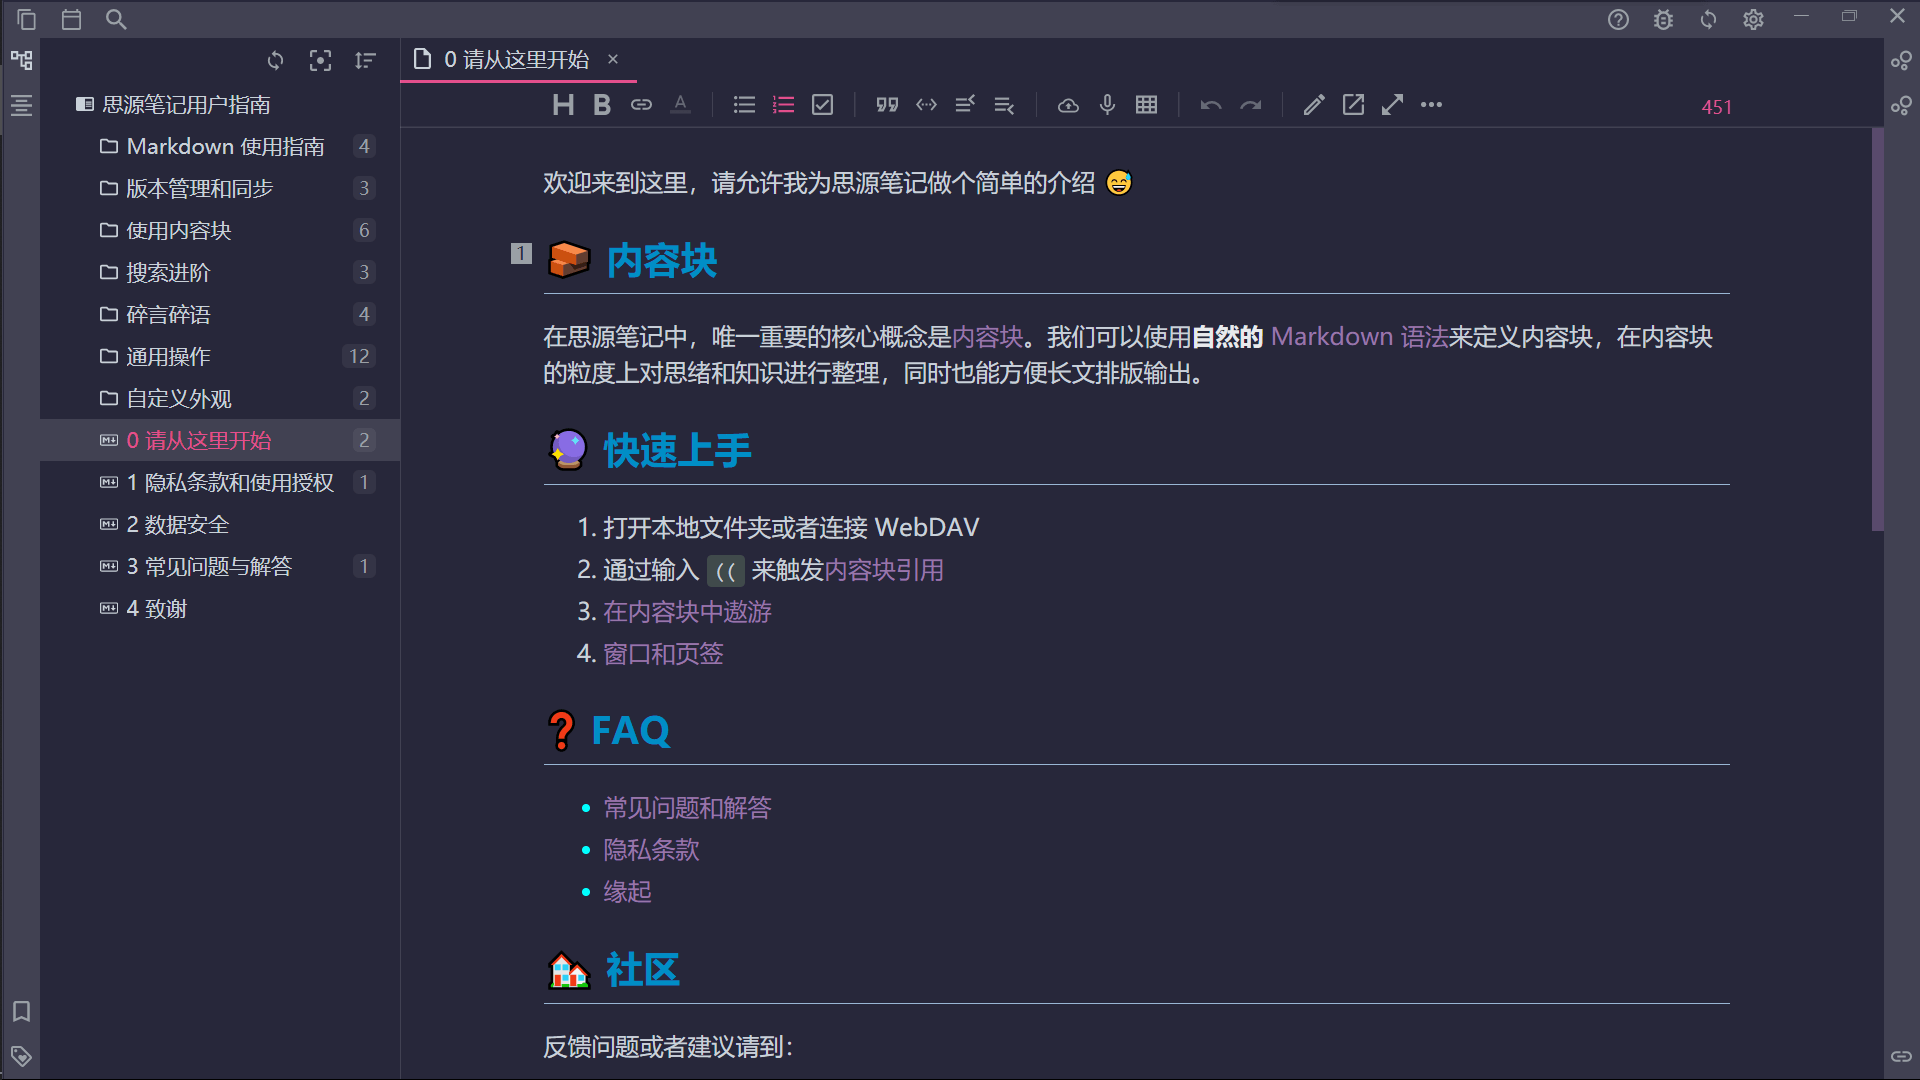
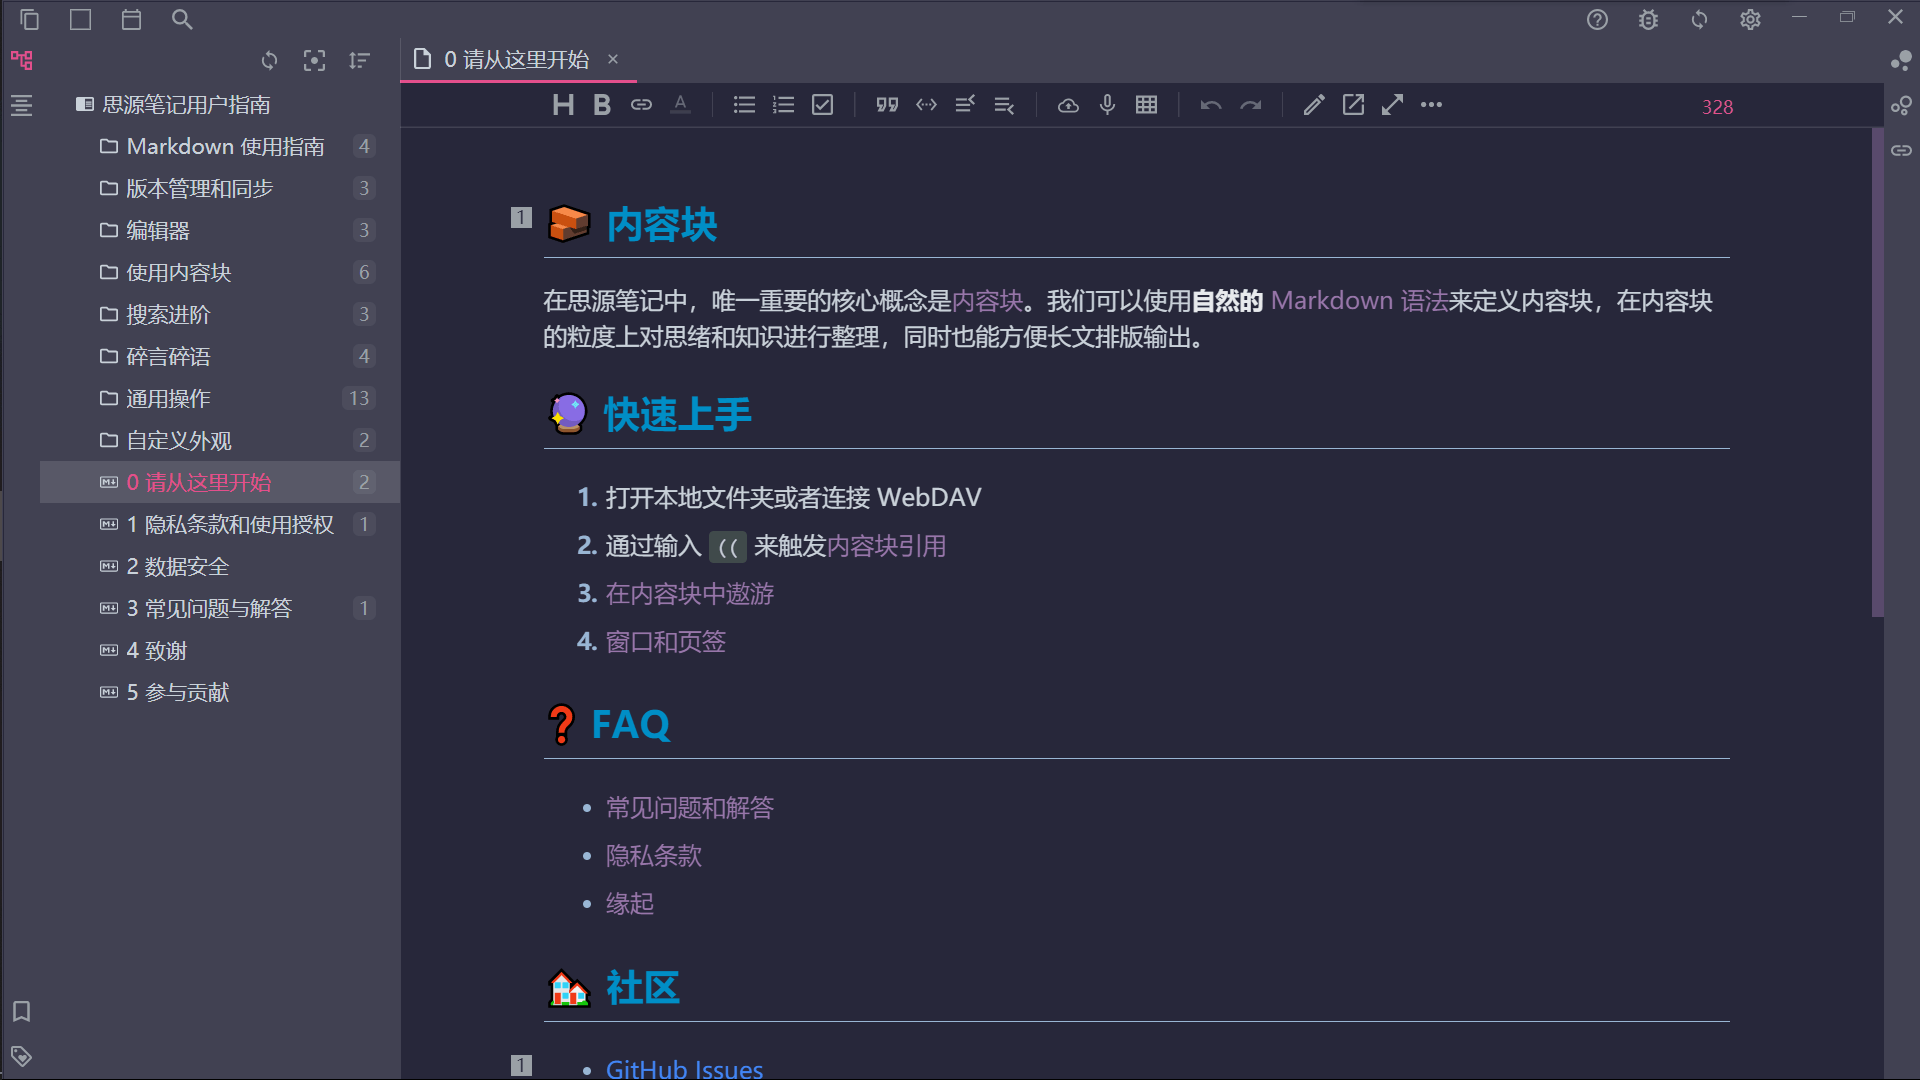
v0.1.0

diff --git a/theme.css b/theme.css
@@ -170,10 +170,26 @@
 .vditor ol ul {
     padding-left: .5em;
 }
+.vditor ol li {
+    color: var(--Lavender-h-underline-highLight-color);
+    font-weight: bold;
+}
+.vditor ol li p, .vditor ul li p {
+    color: var(--b3-theme-on-background);
+    font-weight: normal;
+}
+.vditor ul li {
+    color: var(--Lavender-h-underline-highLight-color);
+}
 .vditor ol {
     padding-left: 1.5em;
 }
 .vditor ul > li {
+    list-style-type: disc;
+    margin-left: .6em;
+}
+
+/* .vditor ul > li {
     min-height: 24px;
     list-style-type: none !important;
[1 lines of base64/hex data omitted]
@@ -182,18 +198,22 @@
     background-repeat: no-repeat;
     margin-left: -.5em;
     padding-left: 1em;
+} */
+.vditor-reset li p {
+    margin-bottom: 0;
+    padding: 4px 0;
 }
-.vditor ol li {
-    margin-left: 1em;
+.vditor ol > li {
+    margin-left: 1.1em;
 }
 .vditor ul ol, .vditor ol ol, .vditor ul ul, .vditor ol ul {
     border-left: .15em solid var(--Lavender-h-underline-highLight-color);
 }
 .vditor ul ol, .vditor ol ol {
-    margin-left: -.8em !important;
+    margin-left: -.875em !important;
 }
 .vditor ul ul, .vditor ol ul {
-    margin-left: -.8em !important;
+    margin-left: -.875em !important;
 }
 /* .vditor ul, .vditor ol {
     padding-left: 1.5em;
@@ -468,4 +488,32 @@ body {
 /* 关系图侧边栏美化 */
 .graph__panel {
     background-color: var(--Lavender-Immersive-color);
+}
+
+/* 命名优化 */
+.vditor-ir--tip *[tip] {
+    box-sizing: border-box;
+    padding: 0 20px;
+    border-radius: 6px;
+    background: linear-gradient(to right, #27273a50,#27273a80,#27273a);
+    box-shadow:  5px 5px 6px #10101880,
+                 -3px -3px 11px #3e3e5c;
+}
+.vditor-ir--tip *[tip]:before {
+    color: var(--Lavender-h-highLight-color);
+    font-weight: bold;
+    background: linear-gradient(to right, var(--Lavender-Immersive-color), #29293c);
+    padding: 5px 8px 6px 8px;
+    margin-top: -10px;
+    border-radius: 4px;
+    font-style: italic;
+    /* box-shadow: 0 2px 0 #d3f5d8; */
+    /* border-bottom: 2px solid #d3f5d8; */
+}
+
+/* SQL查询常显 */
+div[data-type='block-query-embed'].vditor-ir__node .vditor-ir__marker:not([data-type='heading-marker']) {
+    color: #9D142090;
+    width: auto; height: auto;
+    display: inline;
 }

diff --git a/README.md b/README.md
@@ -1,8 +1,8 @@
 # 思源主题: Lavender(dark)
 
-## v0.0.9
-1. 适配关系图，增加部分动效
+## v0.1.0
+1. 列表不再使用base64，同时增加部分小样式
 
 ## 预览图
-![思源Theme-Lavender](https://cdn.jsdelivr.net/gh/ihyw/blogIH-First@main/2021/01/25/Lavender.png
+![思源Theme-Lavender](https://cdn.jsdelivr.net/gh/ihyw/blogIH-First@main/2021/02/01/Lavender(2).png
 )
